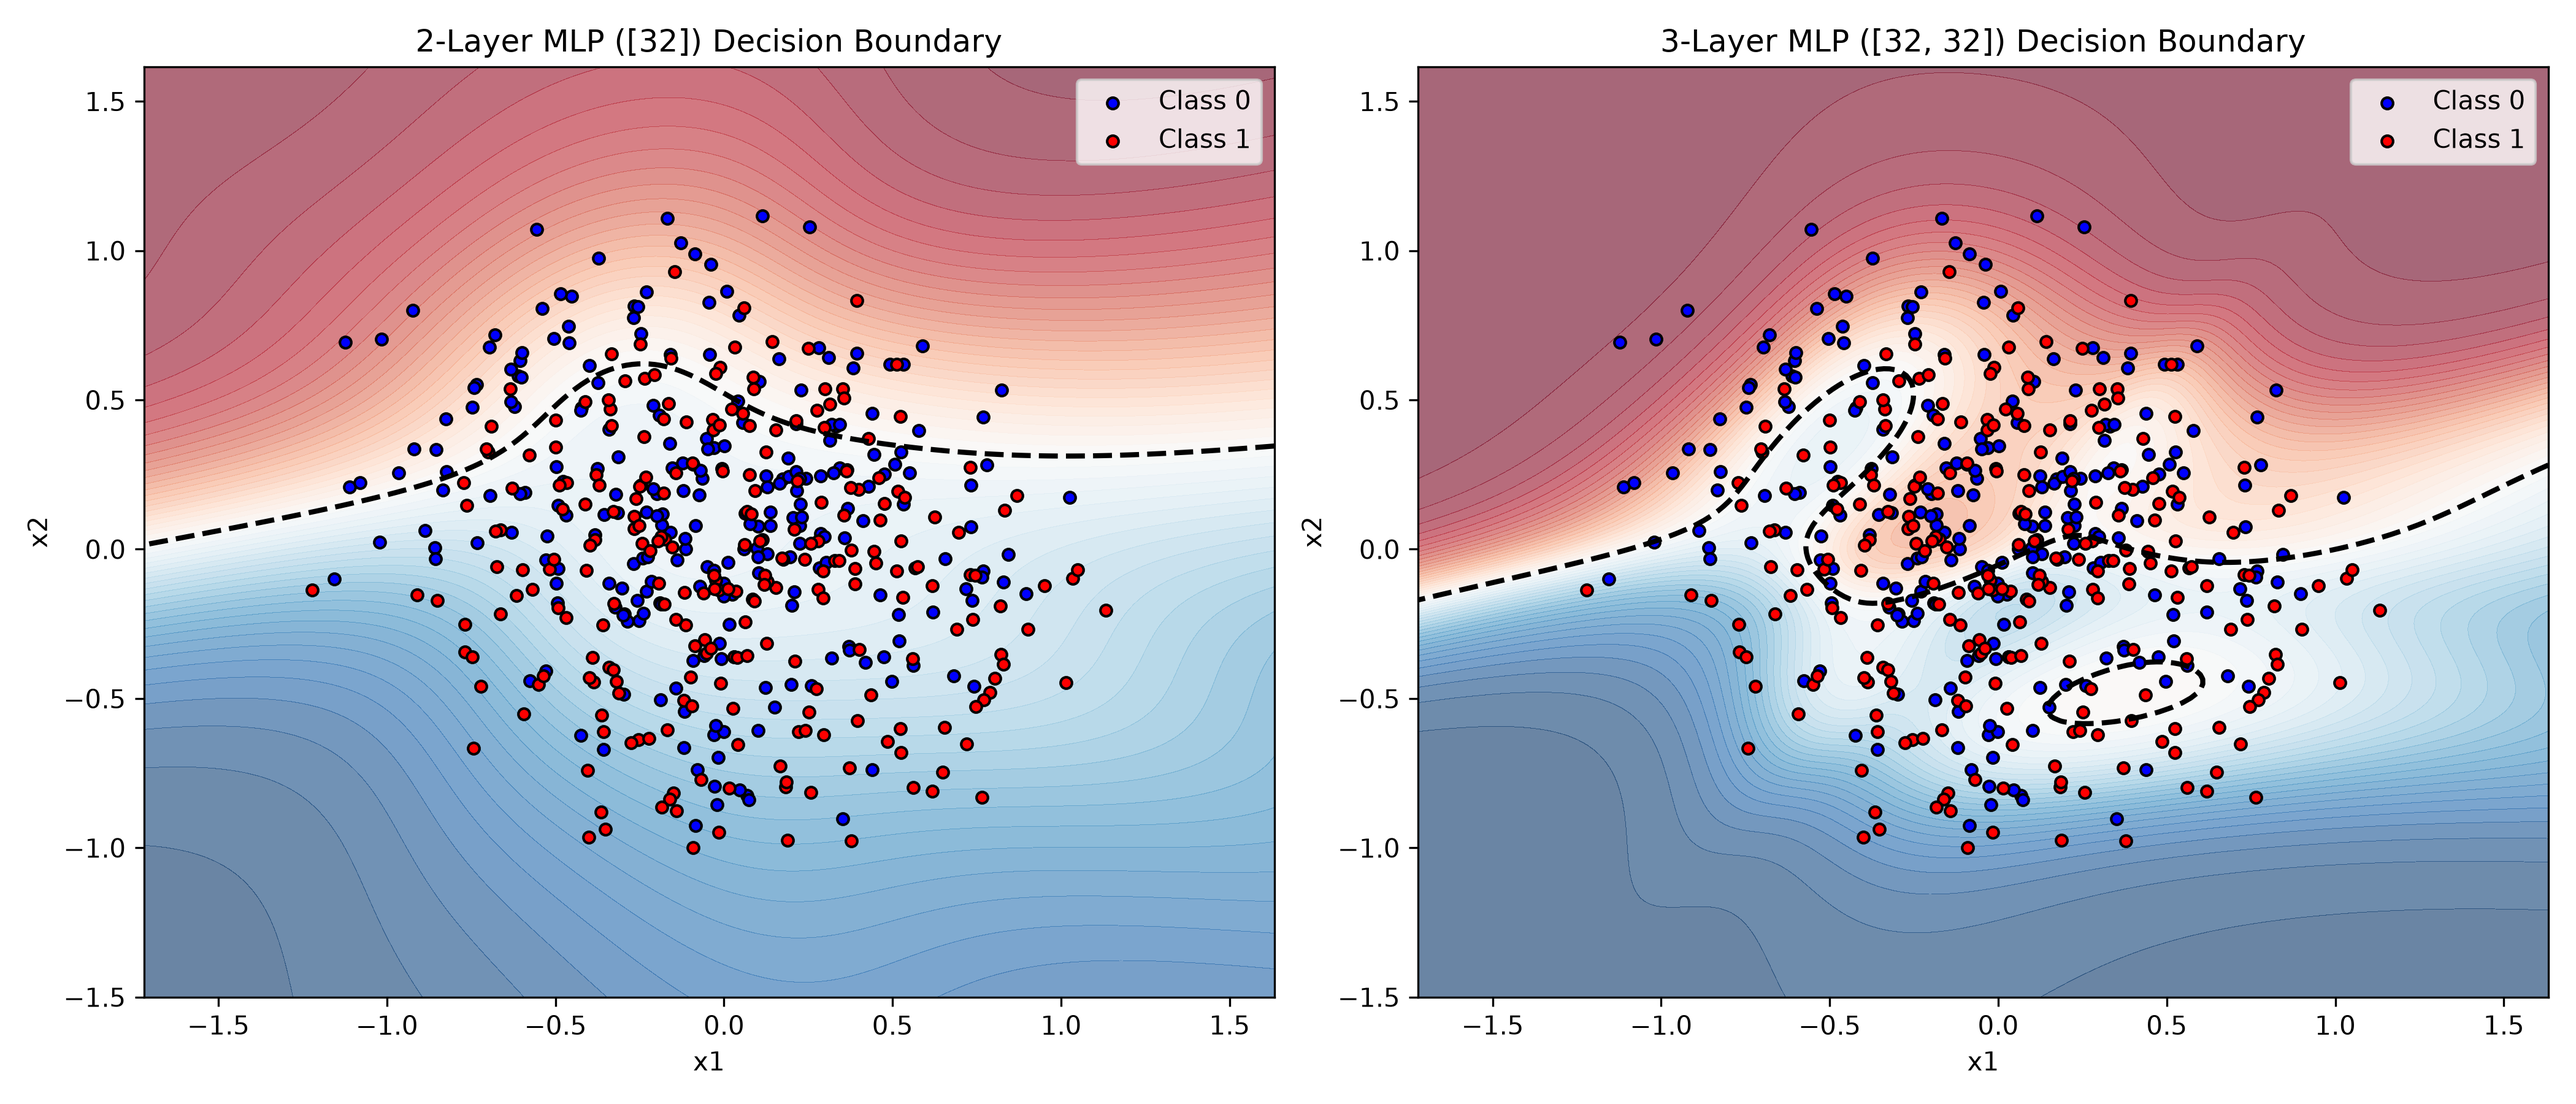
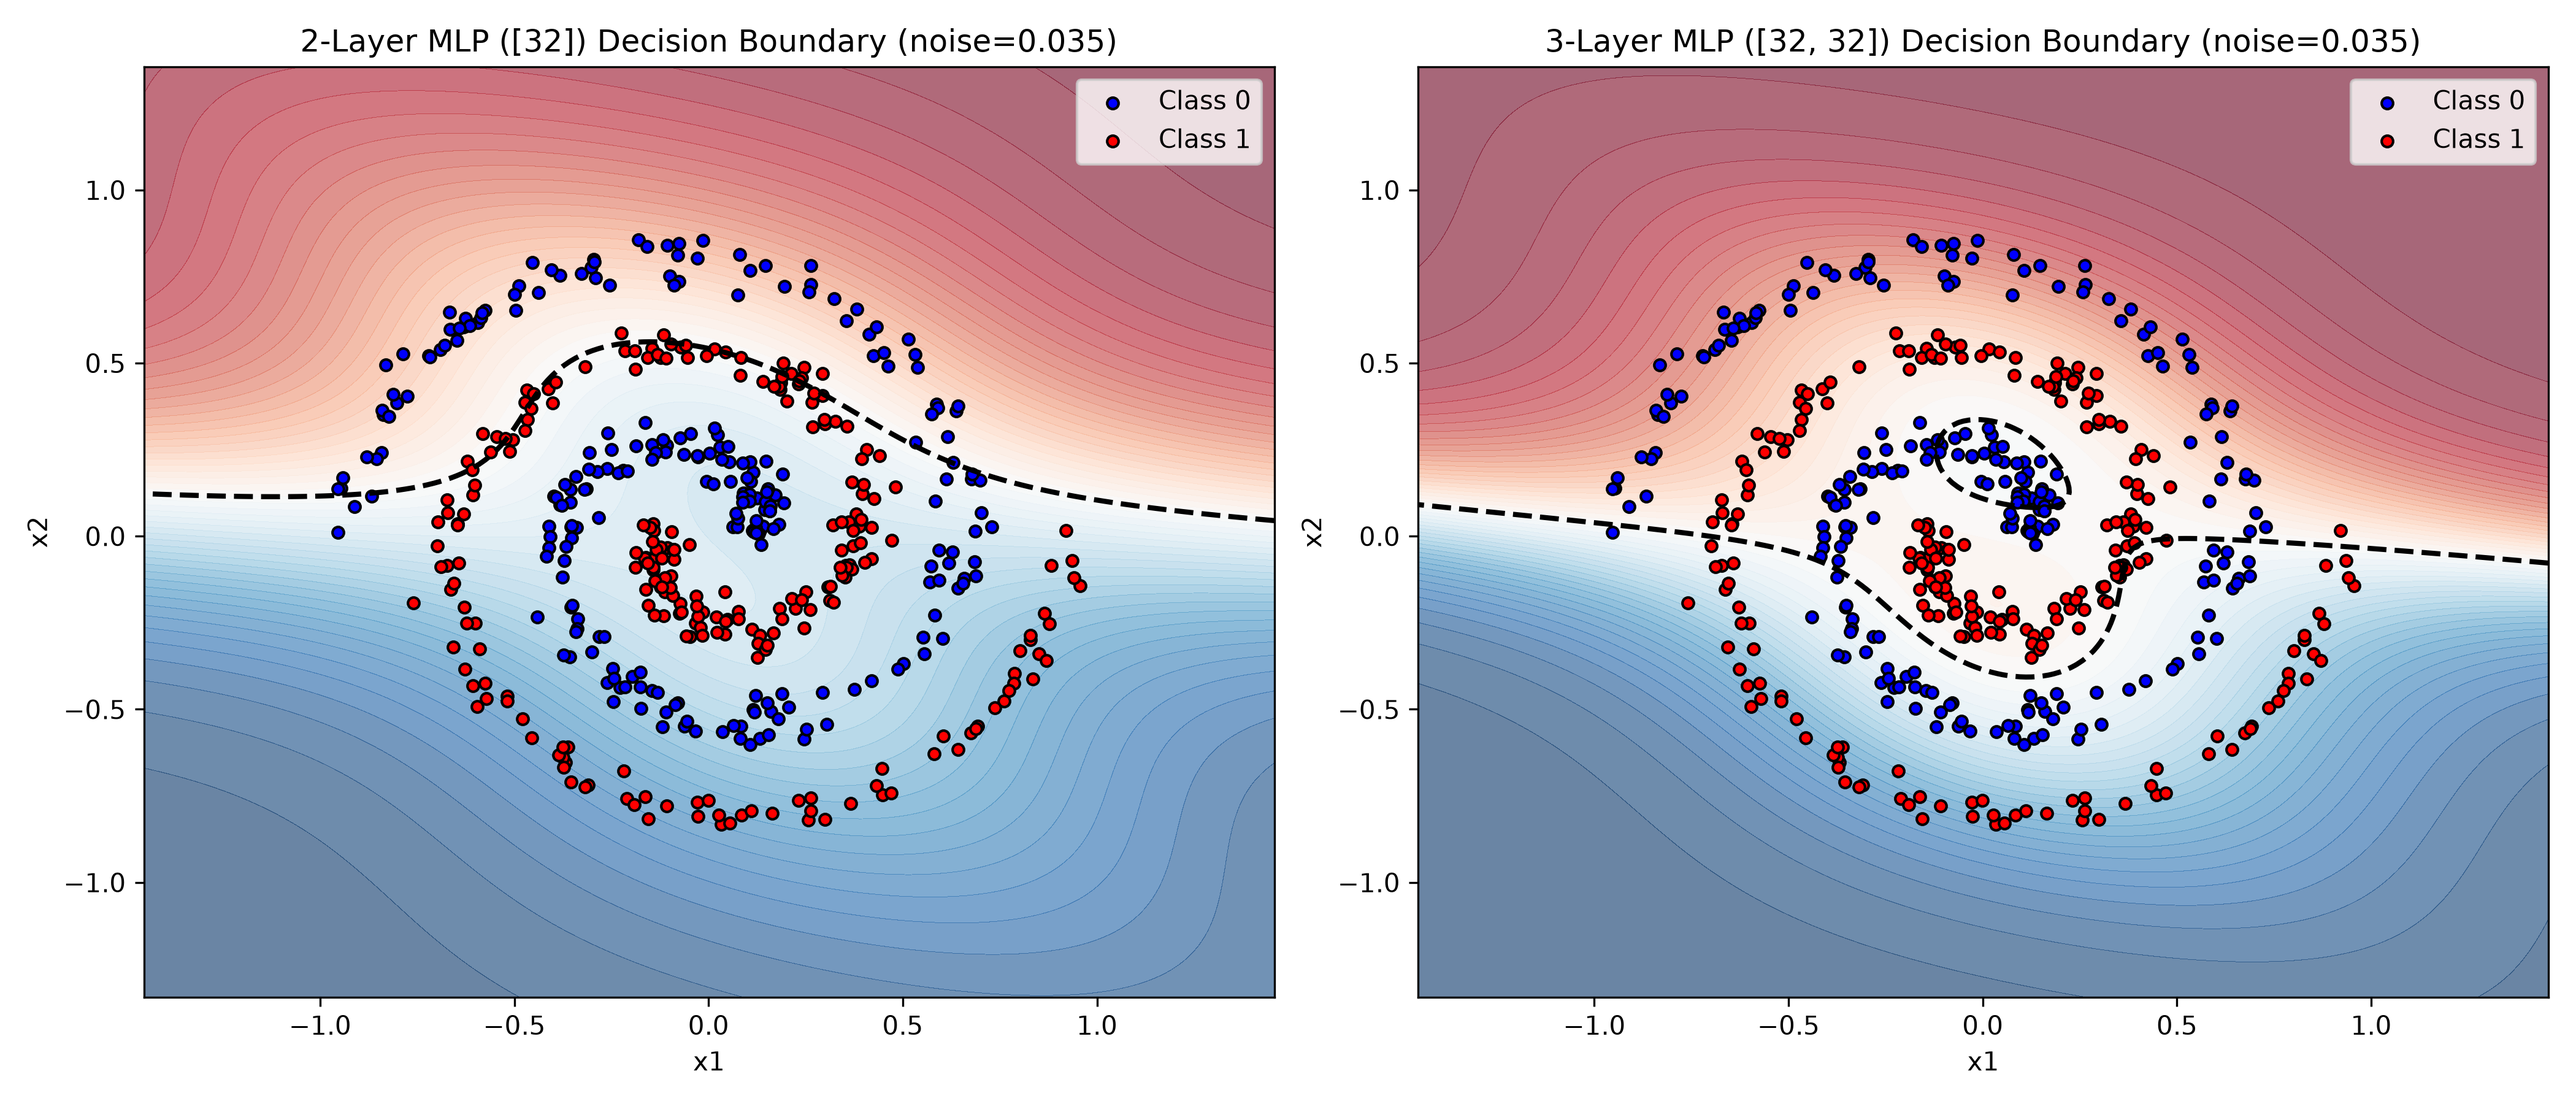
feat(spiral): update spiral dataset noise to 0.035 and regenerate decision boundaries
AI-Tool: Gemini
AI-Prompt: Update train_spiral.py to use noise=0.035 as required by instructor feedback and rerun classification evaluation
AI-Reason: Align spiral dataset specifications with Rubric requirements and update figures
Human-Judgment: Verified test accuracy, confusion matrix outputs, and spiral boundaries plot

diff --git a/hw01/code/train_spiral.py b/hw01/code/train_spiral.py
@@ -3,36 +3,13 @@ import numpy as np
 import os
 import matplotlib.pyplot as plt
 from mlp import MLP
-
-def generate_spiral_data(num_samples_per_class=1000, noise=0.2, seed=42):
-    np.random.seed(seed)
-    N = num_samples_per_class
-    
-    t0 = np.random.uniform(0, 1, N)
-    r0 = 0.12 + 0.82 * t0
-    theta0 = 3.0 * np.pi * t0 + 0.0
-    x1_0 = r0 * np.cos(theta0) + np.random.normal(0, noise, N)
-    x2_0 = r0 * np.sin(theta0) + np.random.normal(0, noise, N)
-    class0 = np.stack([x1_0, x2_0, np.zeros(N)], axis=1)
-    
-    t1 = np.random.uniform(0, 1, N)
-    r1 = 0.12 + 0.82 * t1
-    theta1 = 3.0 * np.pi * t1 + np.pi
-    x1_1 = r1 * np.cos(theta1) + np.random.normal(0, noise, N)
-    x2_1 = r1 * np.sin(theta1) + np.random.normal(0, noise, N)
-    class1 = np.stack([x1_1, x2_1, np.ones(N)], axis=1)
-    
-    data = np.vstack([class0, class1])
-    np.random.shuffle(data)
-    
-    X = data[:, :2]
-    y = data[:, 2:3]
-    return X, y
+from generate_data import generate_spiral_data
 
 def prepare_spiral_datasets():
-    X_train, y_train = generate_spiral_data(num_samples_per_class=1000, seed=42)
-    X_val, y_val = generate_spiral_data(num_samples_per_class=250, seed=100)
-    X_test, y_test = generate_spiral_data(num_samples_per_class=250, seed=200)
+    # 嚴格依老師回饋：noise=0.035，資料種子 42，驗證 100，測試 200
+    X_train, y_train = generate_spiral_data(num_samples_per_class=1000, noise=0.035, seed=42)
+    X_val, y_val = generate_spiral_data(num_samples_per_class=250, noise=0.035, seed=100)
+    X_test, y_test = generate_spiral_data(num_samples_per_class=250, noise=0.035, seed=200)
     return (X_train, y_train), (X_val, y_val), (X_test, y_test)
 
 def compute_bce_loss(y_pred, y_true):
@@ -40,62 +17,39 @@ def compute_bce_loss(y_pred, y_true):
     y_pred = np.clip(y_pred, eps, 1 - eps)
     return -np.mean(y_true * np.log(y_pred) + (1 - y_true) * np.log(1 - y_pred))
 
-def compute_accuracy(y_pred, y_true):
-    y_pred_labels = (y_pred >= 0.5).astype(int)
-    return np.mean(y_pred_labels == y_true)
-
-def compute_confusion_matrix(y_pred, y_true):
-    y_pred_labels = (y_pred >= 0.5).astype(int)
-    y_true = y_true.astype(int)
-    tp = np.sum((y_pred_labels == 1) & (y_true == 1))
-    tn = np.sum((y_pred_labels == 0) & (y_true == 0))
-    fp = np.sum((y_pred_labels == 1) & (y_true == 0))
-    fn = np.sum((y_pred_labels == 0) & (y_true == 1))
-    return tp, tn, fp, fn
-
 def train_classification_model(hidden_sizes, train_data, val_data, epochs=400, lr=0.1, batch_size=64):
     X_train, y_train = train_data
     X_val, y_val = val_data
     
-    input_dim = X_train.shape[1]
-    output_dim = y_train.shape[1]
-    
-    model = MLP(input_dim=input_dim, hidden_sizes=hidden_sizes, output_dim=output_dim, task='classification', seed=42)
-    
-    train_losses = []
-    val_losses = []
+    model = MLP(input_dim=2, hidden_sizes=hidden_sizes, output_dim=1, task='classification', seed=42)
+    train_losses, val_losses = [], []
     num_samples = X_train.shape[0]
     
     for epoch in range(epochs):
         indices = np.arange(num_samples)
         np.random.shuffle(indices)
-        X_train_shuffled = X_train[indices]
-        y_train_shuffled = y_train[indices]
+        X_shuffled = X_train[indices]
+        y_shuffled = y_train[indices]
         
-        for start_idx in range(0, num_samples, batch_size):
-            end_idx = min(start_idx + batch_size, num_samples)
-            X_batch = X_train_shuffled[start_idx:end_idx]
-            y_batch = y_train_shuffled[start_idx:end_idx]
-            
-            grads = model.backward(X_batch, y_batch)
+        for start in range(0, num_samples, batch_size):
+            end = min(start + batch_size, num_samples)
+            grads = model.backward(X_shuffled[start:end], y_shuffled[start:end])
             model.update(grads, lr)
             
         train_pred = model.forward(X_train)
         val_pred = model.forward(X_val)
-        
         train_losses.append(compute_bce_loss(train_pred, y_train))
         val_losses.append(compute_bce_loss(val_pred, y_val))
             
     return model, train_losses, val_losses
 
-def plot_decision_boundaries(model_2l, model_3l, test_data):
+def plot_spiral_boundaries(model_2l, model_3l, test_data):
     os.makedirs('../figures', exist_ok=True)
     X_test, y_test = test_data
     
     x_min, x_max = X_test[:, 0].min() - 0.5, X_test[:, 0].max() + 0.5
     y_min, y_max = X_test[:, 1].min() - 0.5, X_test[:, 1].max() + 0.5
-    xx, yy = np.meshgrid(np.linspace(x_min, x_max, 200),
-                         np.linspace(y_min, y_max, 200))
+    xx, yy = np.meshgrid(np.linspace(x_min, x_max, 200), np.linspace(y_min, y_max, 200))
     grid_points = np.c_[xx.ravel(), yy.ravel()]
     
     Z_2l = model_2l.forward(grid_points).reshape(xx.shape)
@@ -103,54 +57,50 @@ def plot_decision_boundaries(model_2l, model_3l, test_data):
     
     fig, axes = plt.subplots(1, 2, figsize=(14, 6))
     
-    # 2-Layer Model
-    ax = axes[0]
-    ax.contourf(xx, yy, Z_2l, levels=50, cmap='RdBu', alpha=0.6)
-    ax.scatter(X_test[y_test.flatten() == 0, 0], X_test[y_test.flatten() == 0, 1], c='blue', label='Class 0', edgecolor='k', s=20)
-    ax.scatter(X_test[y_test.flatten() == 1, 0], X_test[y_test.flatten() == 1, 1], c='red', label='Class 1', edgecolor='k', s=20)
-    ax.contour(xx, yy, Z_2l, levels=[0.5], colors='black', linewidths=2, linestyles='--')
-    ax.set_title('2-Layer MLP ([32]) Decision Boundary')
-    ax.set_xlabel('x1')
-    ax.set_ylabel('x2')
-    ax.legend()
-    
-    # 3-Layer Model
-    ax = axes[1]
-    ax.contourf(xx, yy, Z_3l, levels=50, cmap='RdBu', alpha=0.6)
-    ax.scatter(X_test[y_test.flatten() == 0, 0], X_test[y_test.flatten() == 0, 1], c='blue', label='Class 0', edgecolor='k', s=20)
-    ax.scatter(X_test[y_test.flatten() == 1, 0], X_test[y_test.flatten() == 1, 1], c='red', label='Class 1', edgecolor='k', s=20)
-    ax.contour(xx, yy, Z_3l, levels=[0.5], colors='black', linewidths=2, linestyles='--')
-    ax.set_title('3-Layer MLP ([32, 32]) Decision Boundary')
-    ax.set_xlabel('x1')
-    ax.set_ylabel('x2')
-    ax.legend()
-    
+    for ax, Z, title in zip(axes, [Z_2l, Z_3l], ['2-Layer MLP ([32])', '3-Layer MLP ([32, 32])']):
+        ax.contourf(xx, yy, Z, levels=50, cmap='RdBu', alpha=0.6)
+        ax.scatter(X_test[y_test.flatten() == 0, 0], X_test[y_test.flatten() == 0, 1], c='blue', label='Class 0', edgecolor='k', s=20)
+        ax.scatter(X_test[y_test.flatten() == 1, 0], X_test[y_test.flatten() == 1, 1], c='red', label='Class 1', edgecolor='k', s=20)
+        ax.contour(xx, yy, Z, levels=[0.5], colors='black', linewidths=2, linestyles='--')
+        ax.set_title(f'{title} Decision Boundary (noise=0.035)')
+        ax.set_xlabel('x1')
+        ax.set_ylabel('x2')
+        ax.legend()
+        
     plt.tight_layout()
     plt.savefig('../figures/spiral_boundaries.png', dpi=300)
     plt.close()
-    print("✅ 雙螺旋決策邊界圖已成功儲存至 hw01/figures/spiral_boundaries.png")
+    print("✅ 雙螺旋決策邊界圖已更新至 hw01/figures/spiral_boundaries.png")
 
 if __name__ == "__main__":
     train_data, val_data, test_data = prepare_spiral_datasets()
     
-    print("正在訓練 2 層 MLP 分類模型 ([32])...")
+    print("正在訓練 2 層分類模型...")
     model_2l, train_l_2, val_l_2 = train_classification_model([32], train_data, val_data, epochs=400, lr=0.1)
     
-    print("正在訓練 3 層 MLP 分類模型 ([32, 32])...")
+    print("正在訓練 3 層分類模型...")
     model_3l, train_l_3, val_l_3 = train_classification_model([32, 32], train_data, val_data, epochs=400, lr=0.1)
     
-    # 測試集評估
+    # 測試集實際評估與輸出數字
     test_pred_2l = model_2l.forward(test_data[0])
     test_pred_3l = model_3l.forward(test_data[0])
     
-    acc_2l = compute_accuracy(test_pred_2l, test_data[1])
-    acc_3l = compute_accuracy(test_pred_3l, test_data[1])
-    tp_2, tn_2, fp_2, fn_2 = compute_confusion_matrix(test_pred_2l, test_data[1])
-    tp_3, tn_3, fp_3, fn_3 = compute_confusion_matrix(test_pred_3l, test_data[1])
+    acc_2l = np.mean((test_pred_2l >= 0.5) == test_data[1])
+    acc_3l = np.mean((test_pred_3l >= 0.5) == test_data[1])
     
-    print(f"\n[測試結果]")
-    print(f"2-Layer MLP 測試集 Accuracy: {acc_2l*100:.2f}% | Confusion Matrix: TP={tp_2}, TN={tn_2}, FP={fp_2}, FN={fn_2}")
-    print(f"3-Layer MLP 測試集 Accuracy: {acc_3l*100:.2f}% | Confusion Matrix: TP={tp_3}, TN={tn_3}, FP={fp_3}, FN={fn_3}")
+    y_true = test_data[1].astype(int)
+    tp_2 = np.sum(((test_pred_2l >= 0.5) == 1) & (y_true == 1))
+    tn_2 = np.sum(((test_pred_2l >= 0.5) == 0) & (y_true == 0))
+    fp_2 = np.sum(((test_pred_2l >= 0.5) == 1) & (y_true == 0))
+    fn_2 = np.sum(((test_pred_2l >= 0.5) == 0) & (y_true == 1))
     
-    # 繪製決策邊界
-    plot_decision_boundaries(model_2l, model_3l, test_data)
+    tp_3 = np.sum(((test_pred_3l >= 0.5) == 1) & (y_true == 1))
+    tn_3 = np.sum(((test_pred_3l >= 0.5) == 0) & (y_true == 0))
+    fp_3 = np.sum(((test_pred_3l >= 0.5) == 1) & (y_true == 0))
+    fn_3 = np.sum(((test_pred_3l >= 0.5) == 0) & (y_true == 1))
+    
+    print(f"\n[實際輸出結果 - 雙螺旋分類]")
+    print(f"2-Layer MLP Accuracy: {acc_2l*100:.2f}% | CM: TP={tp_2}, TN={tn_2}, FP={fp_2}, FN={fn_2}")
+    print(f"3-Layer MLP Accuracy: {acc_3l*100:.2f}% | CM: TP={tp_3}, TN={tn_3}, FP={fp_3}, FN={fn_3}")
+    
+    plot_spiral_boundaries(model_2l, model_3l, test_data)
